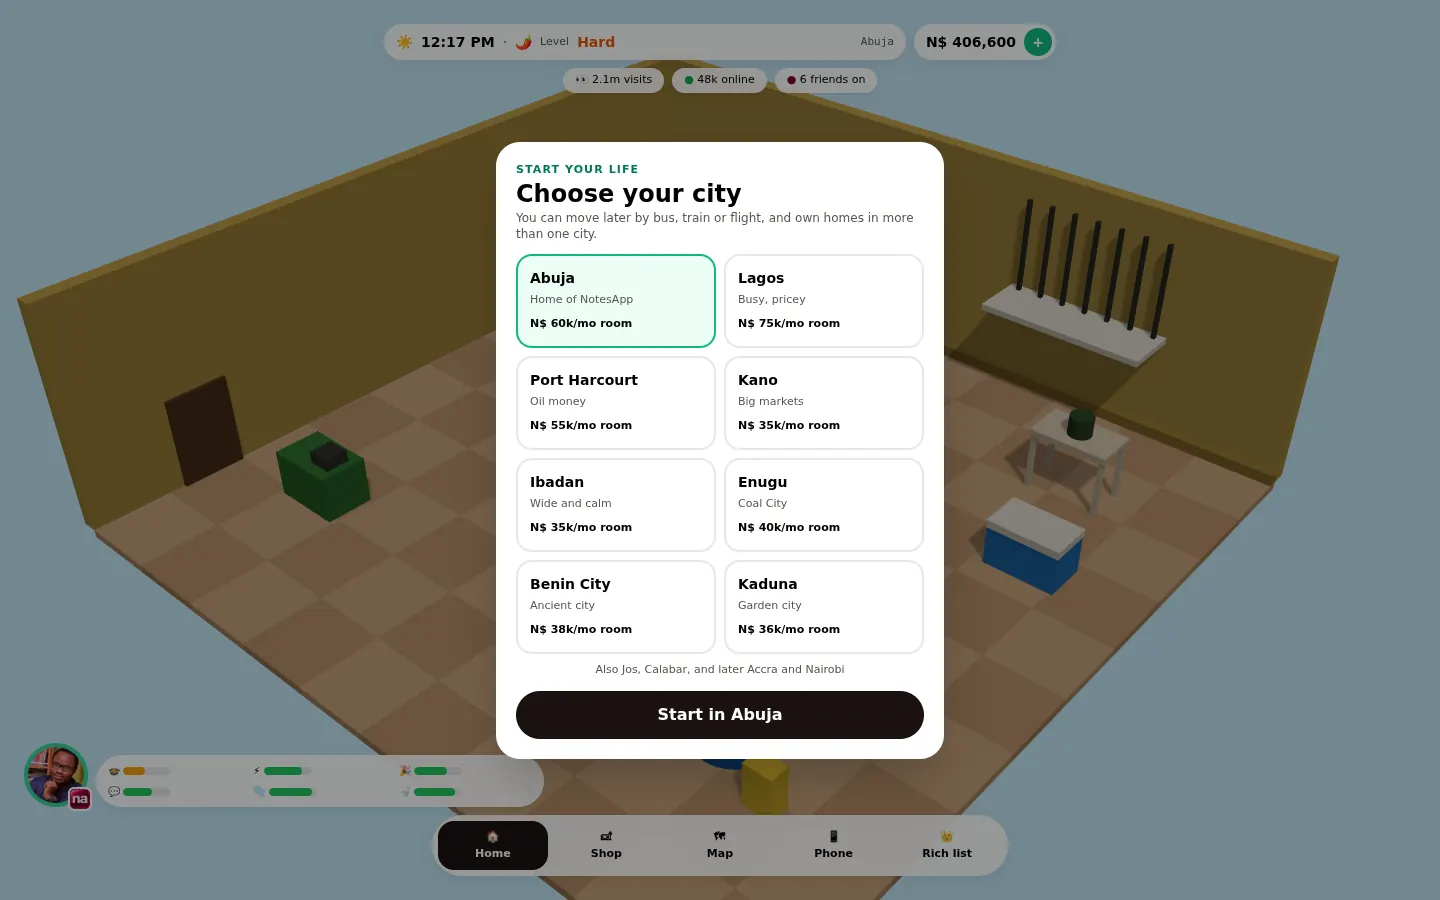
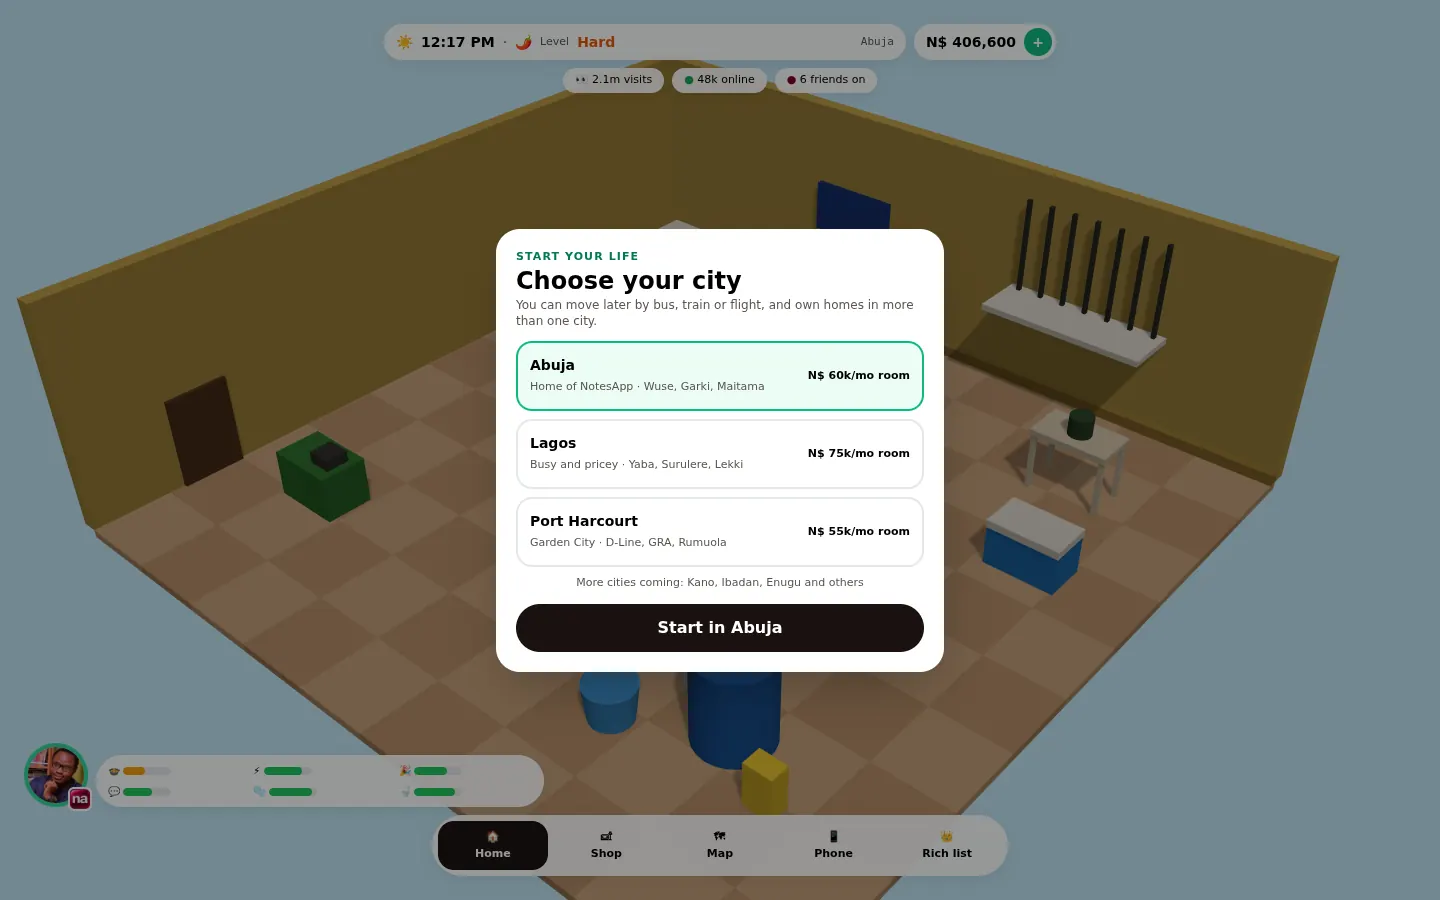
Notes Life: launch with three cities (Abuja, Lagos, Port Harcourt)
Claude-Session: https://claude.ai/code/session_014YUCojVUYbQrveaVgUJMCC

Changed region(s): [[0.3438, 0.1556, 0.6562, 0.8711]]

diff --git a/app/life/page.tsx b/app/life/page.tsx
@@ -11,7 +11,7 @@ export const metadata: Metadata = {
 
 const APP = "https://app.notesapp.name.ng";
 const shots: { src: string; title: string; text: string }[] = [
-  { src: "/images/life/cities-phone.webp", title: "Choose your city", text: "Start in Abuja, Lagos, Port Harcourt, Kano, Ibadan, Enugu, Benin City, Kaduna, Jos or Calabar. Move later, and own homes in more than one." },
+  { src: "/images/life/cities-phone.webp", title: "Choose your city", text: "Start in Abuja, Lagos or Port Harcourt, with more cities to come. Move later, and own homes in more than one." },
   { src: "/images/life/room-phone.webp", title: "Your room, your city", text: "Start in a face-me-I-face-you room. Your NotesApp photo is your portrait. Keep your food, energy, fun and social bars up, and pick how hard you want life to be." },
   { src: "/images/life/blackout-phone.webp", title: "NEPA has taken light", text: "Power cuts hit everyone at the same moment. Buy an “I Better Pass My Neighbour”, go solar, or stay in the dark till light returns." },
   { src: "/images/life/night-phone.webp", title: "UP NEPA!", text: "Generators roar, a few windows glow, the solar estate never notices. When light returns, the whole street hears it." },
@@ -39,7 +39,7 @@ export default function LifePage() {
           <div>
             <p className="inline-flex items-center gap-2 rounded-full bg-white/80 px-3 py-1 font-mono text-[11px] uppercase tracking-widest text-emerald-700 shadow-sm"><span className="h-2 w-2 animate-pulse rounded-full bg-amber-400" aria-hidden="true" />Coming soon</p>
             <h1 className="mt-4 font-display text-5xl leading-[1.05] sm:text-6xl">Start small.<br />Hustle.<br /><span className="text-emerald-600">Ball out.</span></h1>
-            <p className="mt-4 max-w-lg text-lg text-slate">Notes Life is a free life game in your browser. Begin in a face-me-I-face-you room in your own city (Abuja, Lagos, Port Harcourt, Kano and more), choose any work, write, take bookings, run a shop, decorate, visit and call your friends, and work your way to towers, jets and yachts. You play with your NotesApp account.</p>
+            <p className="mt-4 max-w-lg text-lg text-slate">Notes Life is a free life game in your browser. Begin in a face-me-I-face-you room in your own city (Abuja, Lagos or Port Harcourt to start), choose any work, write, take bookings, run a shop, decorate, visit and call your friends, and work your way to towers, jets and yachts. You play with your NotesApp account.</p>
             <div className="mt-6 flex flex-wrap gap-3">
               <a href={`${APP}/signup`} className="rounded-full bg-ink px-6 py-3 font-ui text-sm font-bold text-paper shadow hover:bg-emerald-700">Get your NotesApp account ready</a>
               <a href="https://www.notesapp.name.ng/u/na-notesapp" className="rounded-full bg-white px-6 py-3 font-ui text-sm font-bold text-ink shadow-sm hover:bg-white/80">Follow for launch news</a>

diff --git a/README.md b/README.md
@@ -2428,7 +2428,7 @@ A browser life game at **life.notesapp.name.ng**, its own look, **NotesApp sign-
 - **Rich list:** named **"Billionaires List"**, sub-title **"NotesVille Fat Wallet Index"**; the first time a player opens it a tutorial pop-up says: *"Welcome to the official [REDACTED BY LAWYERS] Rich List!"* A **brag button** makes a share card (asset bought, rank) with the player's referral link.
 - **Calls in the game:** to friends (people who follow each other), ₦5/min voice and ₦10/min video, paid from NotesApp Credit, over our own direct calls (above).
 - **Real NotesApp inside:** daily quests that are real actions (follow, read, complete profile, invite a friend who verifies); a **market street** where stalls are real NotesApp stores and items (Buy on NotesApp opens the real checkout; boosted items get the best stalls); **billboards** running our real ad campaigns with **Visit** and **Ask about this promotion** (a message or enquiry to the advertiser), counted like site impressions; a newsstand (trending journals), an office (bookings), a stage (live video and the #1MillionNaira challenge, when live).
-- **Cities (decided 13 October 2026):** the player chooses a city at the start; **Abuja first** (NotesApp's home), then Lagos, Port Harcourt, Kano, Ibadan, Enugu, Benin City, Kaduna, Jos, Calabar; later Accra and Nairobi. Each city has its own neighbourhoods (inspired by real ones, e.g. Wuse, Garki, Maitama), rents, prices, market and city leaderboard; travel by bus, train or flight in Notesville Naira; property in several cities. The top-left slot of the game bar is the **difficulty level**. (Times in code are "Lagos time" = Africa/Lagos, WAT, which is the whole country's time zone, not the city.)
+- **Cities (decided 13 October 2026):** the player chooses a city at the start. **Launch with three: Abuja (first, NotesApp's home), Lagos and Port Harcourt.** Later: Kano, Ibadan, Enugu, Benin City, Kaduna, Jos, Calabar, then Accra and Nairobi. Each city has its own neighbourhoods (inspired by real ones, e.g. Wuse, Garki, Maitama), rents, prices, market and city leaderboard; travel by bus, train or flight in Notesville Naira; property in several cities. The top-left slot of the game bar is the **difficulty level**. (Times in code are "Lagos time" = Africa/Lagos, WAT, which is the whole country's time zone, not the city.)
 - **Work mirrors NotesApp:** choose any profession (writer/creator, coach, consultant, therapist, fashion or food seller, tech freelancer, business owner) and do what members do on NotesApp: publish posts for readers and followers, take bookings, run a storefront, start a company and hire players, get paid at the Central Bank of Notesville. Quests point to real NotesApp actions.
 - **NEPA power cuts (Notesville Electric Power Authority):** server-wide, the same second for every player in every city, a few times a day at unpredictable times. Ordinary houses go dark; estates with dedicated power, 24/7 high-rises and homes with solar are never affected. Neighbourhood murmur ("NEPA don take light again o!"), then a prompt: **"I Better Pass My Neighbour" 950W** (bulb, fan, charging; loud; petrol), a bigger generator (TV and fridge too), **solar + inverter** (silent, never affected again), or **stay in darkness till light returns**. Generators start one by one with different sounds by size and distance; only powered windows light up. Without power: energy drops faster, fridge food spoils, the in-game phone battery runs down, unpowered shops lose customers; generators need fuel (filling-station queue) and lower neighbours' mood. When light returns: the "nwiiiiiii" appliance chorus, children shouting "UP NEPA!", an adult "Shhhh! Before dem hear and take am again!", generators going off one by one, quiet. Spatial sound with its own volume, mute and captions.
 - **Crime and the police (founder's decisions; content needs counsel and founder sign-off before build):** players can rob others, but the chance of being caught is high (about 85–90%), then court, prison time (real-time hours; no work or trade; prison chores, call a lawyer, pay bail), a fine and a criminal record. The police unit is **NARS** (a fictional squad). Satire scenes asked for: roadside officers demanding receipts for phones, cameras and laptops; young men in flashy cars labelled "yahoo boys" and taken in; the station banner "BAIL IS FREE" with small print "never pay for bail bond", while officers charge for "photocopying" the bail bond or send people back to detention "till HQ sends the next batch"; a few good police. In prison a player can also **negotiate with a bigger syndicate** to secure bail in exchange for **underground jobs for an agreed period**. **Assets bought with NotesApp Credit can be stolen but the thief is always caught on, before or immediately after the act** and the item goes back. Banked money, new players (first 7 days) and offline players are protected. **Also decided (founder, repeated three times):** under interrogation NARS officers always tell suspects they are "licensed to shoot anyone in custody"; if a suspect dies in custody, officers place a gun in the dead person's hand and take a picture, claiming the person tried to escape or shot at an officer. Some players in prison negotiate with a bigger syndicate to secure bail and then work for it for an agreed period. Build notes: it is satire of real abuses, so it stays clearly fictional (fictional force, no real officers, places or cases); the game is 18+; the scene is shown once with a content note and can be skipped; a player's character can lose progress or "restart from the village", but nothing real is taken. Counsel to look over NARS (close to SARS), the police satire and the syndicate mechanic before launch.
